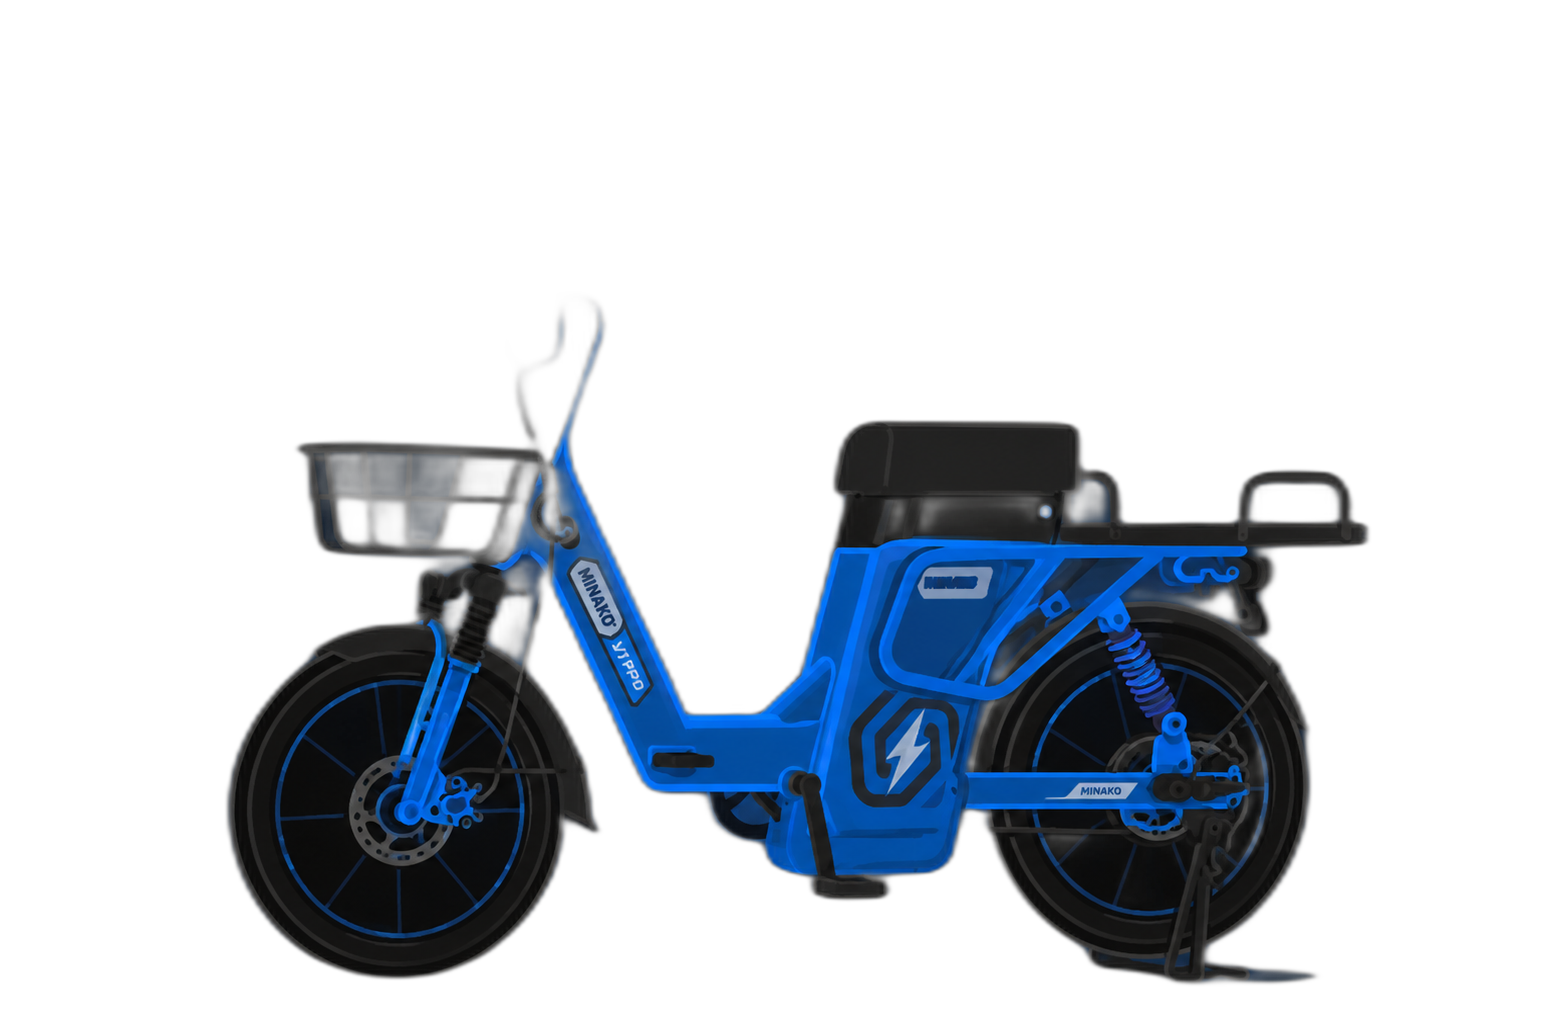
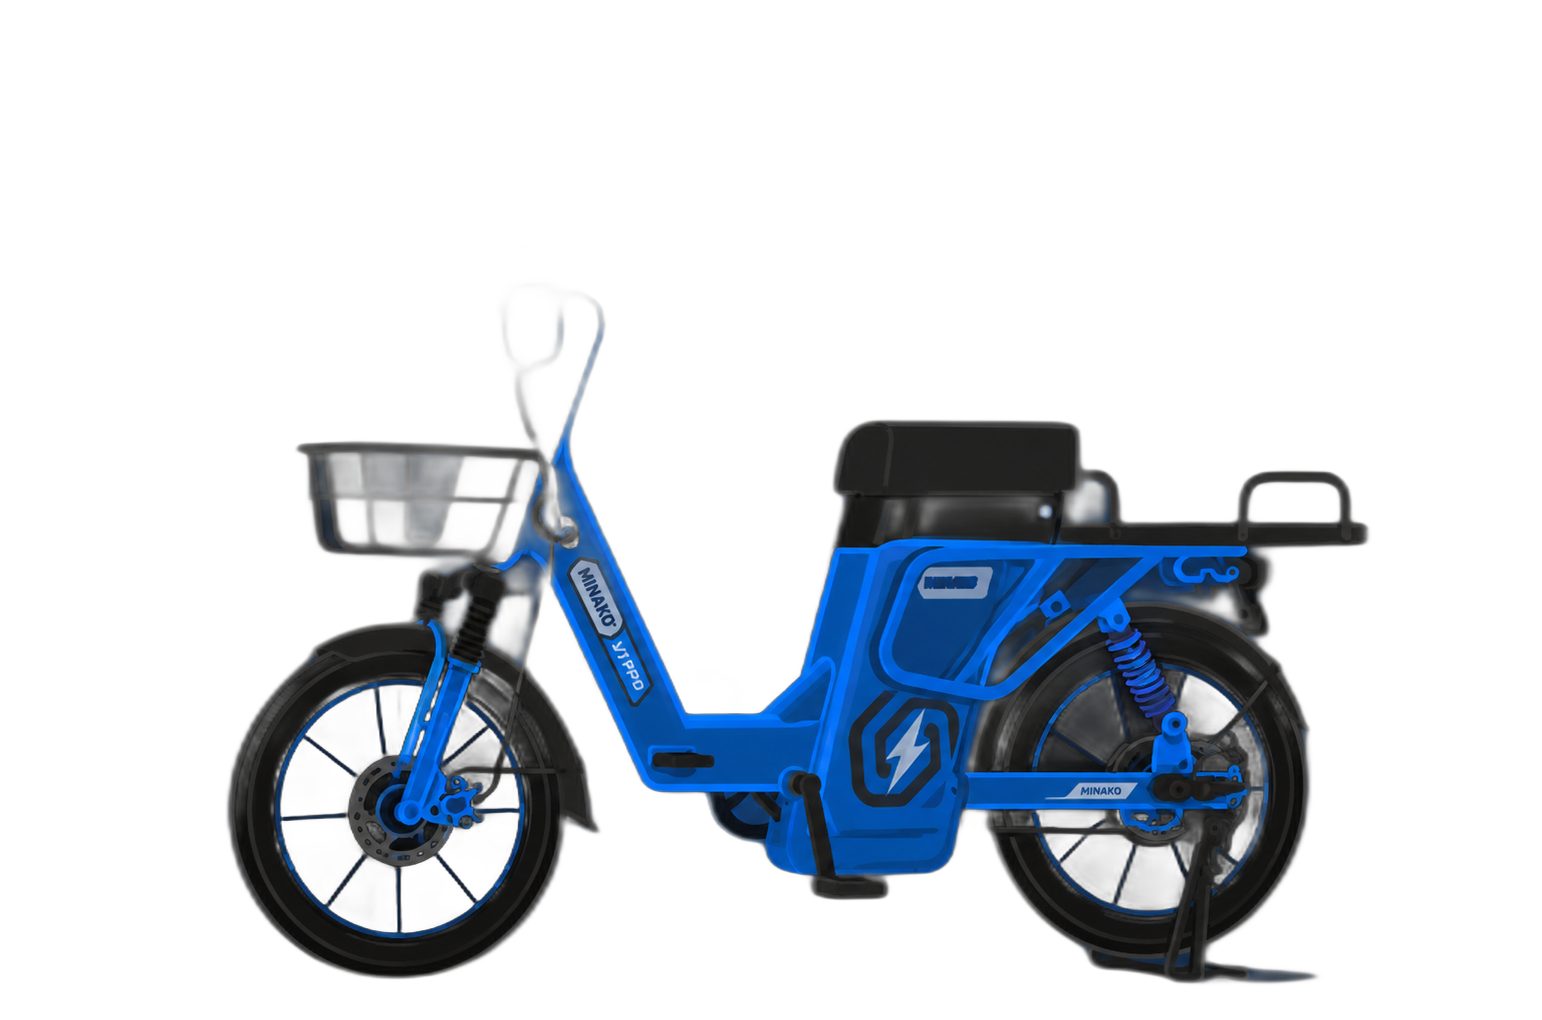
Restore original bike photos, unify style with mix-blend-mode:screen + glow
Both bikes now use screen blend (removes dark bg) + blue drop-shadow glow.

diff --git a/index.html b/index.html
@@ -139,7 +139,8 @@
     bottom: -5%;
     width: 58%;
     max-width: 860px;
-    filter: drop-shadow(0 0 80px rgba(27,143,255,0.25)) drop-shadow(0 40px 60px rgba(0,0,0,0.8));
+    filter: drop-shadow(0 0 40px rgba(27,143,255,0.5)) brightness(1.05) contrast(1.1);
+    mix-blend-mode: screen;
     transform: translateX(40px);
     opacity: 0;
     object-fit: contain;
@@ -392,12 +393,13 @@
   .bike-image-wrap img {
     max-height: 100%; max-width: 100%;
     object-fit: contain;
-    filter: drop-shadow(0 8px 20px rgba(0,0,0,0.15));
+    mix-blend-mode: screen;
+    filter: drop-shadow(0 0 18px rgba(27,143,255,0.5)) brightness(1.05) contrast(1.1);
     transition: transform 0.5s cubic-bezier(0.25, 0.46, 0.45, 0.94), filter 0.5s;
   }
   .bike-card:hover .bike-image-wrap img {
     transform: scale(1.05) translateY(-8px);
-    filter: drop-shadow(0 20px 40px rgba(27,143,255,0.2)) drop-shadow(0 8px 20px rgba(0,0,0,0.15));
+    filter: drop-shadow(0 0 32px rgba(27,143,255,0.8)) brightness(1.1) contrast(1.15);
   }
   .bike-glow {
     position: absolute;
@@ -618,7 +620,8 @@
   .contact-bike-img {
     width: 100%;
     max-width: 500px;
-    filter: drop-shadow(0 0 40px rgba(27,143,255,0.15));
+    filter: drop-shadow(0 0 30px rgba(27,143,255,0.5)) brightness(1.05) contrast(1.1);
+    mix-blend-mode: screen;
     animation: float 6s ease-in-out infinite;
     object-fit: contain;
   }